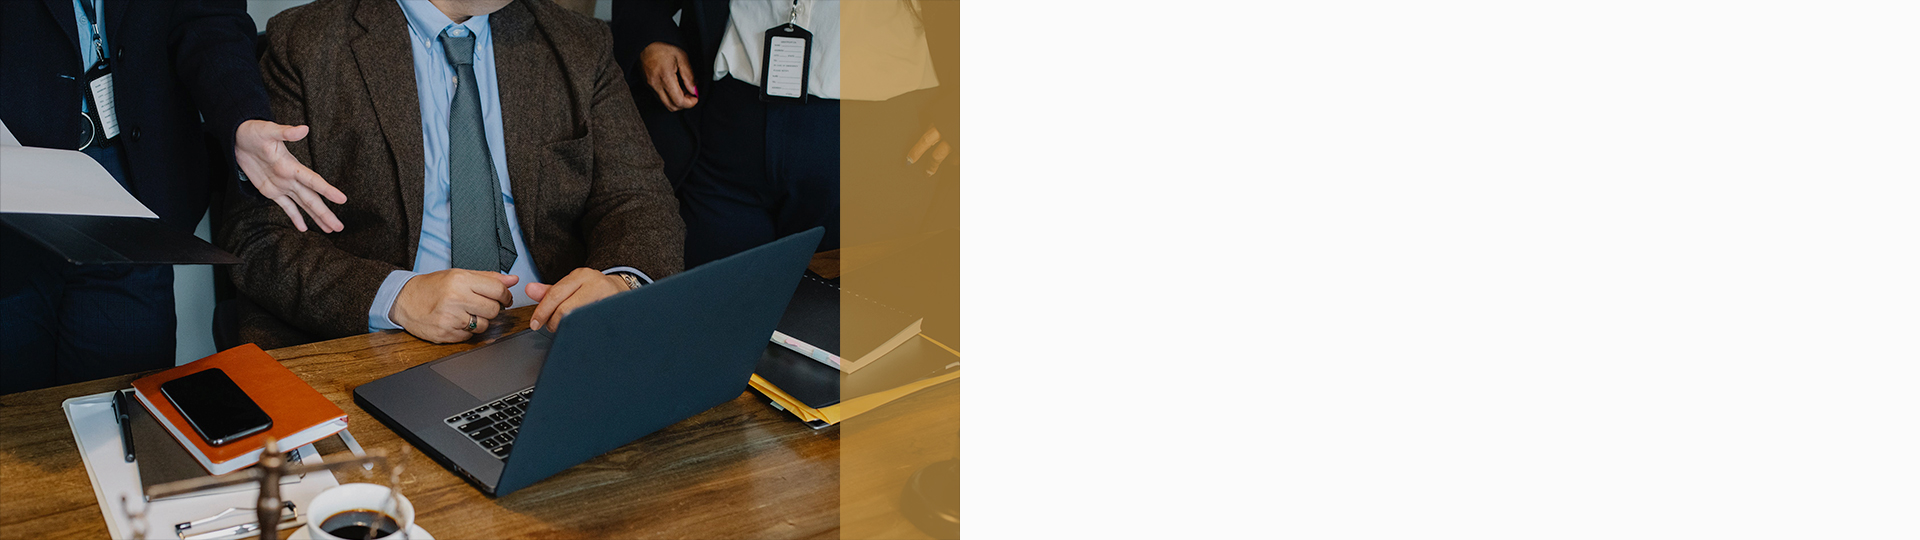
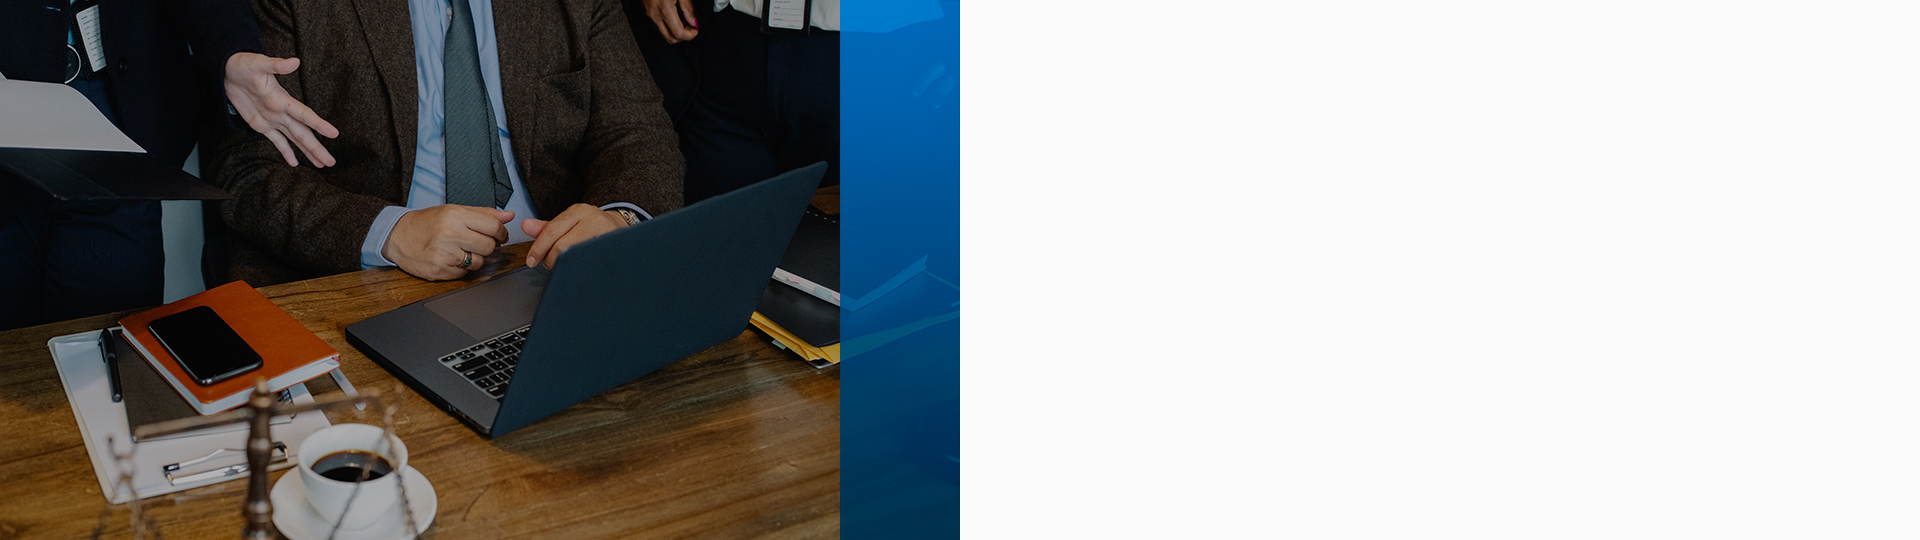
Version azul

diff --git a/index.html b/index.html
@@ -77,9 +77,9 @@
 					<div class="row">
 						<div class="col-md-6 col-md-offset-3 intro-text">
 							<h1 class="justify-content-center"><img
-								src="img/logo.svg "
+								src="img/logo_white.svg "
 								class="logo_animated"
-								alt="Hash Bank"
+								alt="Hash Bank Logo"
 							/></h1>
 							<h2 class="logo_text">Tailor-made banking solutions from an $100B USD asset-back digital bank</h2>
 							<h2 class="logo_text italic">Solutions bancaires sur mesure d'une banque numérique de 100 milliards de dollars</h2>
@@ -111,8 +111,8 @@
 
 		<!-- Tresuary Section -->
 		<div id="tresuary">
-			<div class="container align-center justify-content-center">
-				<div class="row">
+			<div class="align-center justify-content-center w100 flex-column">
+				<div class="row p15">
 					<div class="col-xs-12 col-md-8 col-md-offset-2 white">
 						<div class="mb-3em">
 							<h2 class="text-center subtitle">Treasury</h2>
@@ -122,9 +122,11 @@
 							<h2 class="text-center subtitle">Trésorerie</h2>
 							<h2 class="text-center white">Sous gestion. Disponible pour vos besoins de garantie</h2>
 						</div>
-						<p class="hugetext">$100B</p>
 					</div>
 				</div>
+				<div class="w100 white-transp">
+				<p class="hugetext p15">$100B</p>
+			</div>
 			</div>
 		</div>
 		
@@ -164,6 +166,30 @@
 				</div>
 			</div>
 		</div>
+
+		
+		<!--License Section -->
+		<div id="license">
+			<div class="container align-center justify-content-center">
+				<div class="row">
+					<div class="col-xs-12 col-md-6 col-md-offset-6 mb-3em">
+						<div class="section-title">
+							<h2 class="subtitle">License</h2>
+							<h2 class="white">Title about our license</h2>
+						</div>
+						<p class="white">Misión o alguna info del banco … Lorem ipsum dolor sit amet, consectetur adipiscing elit. Vivamus ultricies augue id mi convallis, convallis tempus sem laroreet ultricies .</p>
+					</div>
+					<div class="col-xs-12 col-md-6">
+						<div class="section-title">
+							<h2 class="subtitle">Licence</h2>
+							<h2 class="white">Titre sur notre licence</h2>
+						</div>
+						<p class="white">Cher Lucas, Je t'écris de chez mes grands-parents à l'Aigle en Normandie où je passe de super vacances depuis maintenant une semaine. Ici, il fait beau et chaud. On a de la chance! J'en profite pour me baigner à la rivière avec mes cousins presque tous les jours!</p>
+					</div>
+				</div>
+			</div>
+		</div>
+
 		<!-- Contact Section -->
 		<div id="contact">
 			<div class="container flex justify-content-center">

diff --git a/css/style.css b/css/style.css
@@ -1,7 +1,7 @@
 :root {
 	--background: #fbfbfb;
-	--mainprimary:   #B7934B;
-	--maindark: #855f19;
+	--mainprimary:   #1589B1;
+	--maindark: #173C81;
 	--black:  #000000;
 	--white: #FFFFFF;
 	--grey: #666666;
@@ -45,6 +45,9 @@ p.intro {
 	margin: 12px 0 0;
 	line-height: 24px;
 }
+.p15{
+	padding: 0px 15px;
+}
 a {
 	color: var(--mainprimary);
 	font-weight: 400;
@@ -57,6 +60,7 @@ a:hover, a:focus {
 	font-size: 17px;
     text-align: right;
     margin-bottom: 5px;
+	color:  var(--white);
 }
 .subtitle{
 	text-transform: uppercase;
@@ -69,6 +73,7 @@ a:hover, a:focus {
     color: var(--mainprimary);
     text-align: center;
 	font-weight: 700;
+	padding: 20px 15px;
 }
 .italic{
 	font-style: italic;
@@ -128,7 +133,7 @@ hr {
 
 /* Navigation */
 #menu {
-	padding: 20px;
+	padding: 15px 0px 10px 0px;
 	transition: all 0.8s;
 }
 .logo_img{
@@ -157,7 +162,8 @@ hr {
 }
 
 #menu.navbar-default {
-	background-color: rgba(248, 248, 248, 0);
+	/*background-color: rgba(248, 248, 248, 0);*/
+	background-color: var(--white);
 	border-color: rgba(231, 231, 231, 0);
 }
 #menu a.navbar-brand {
@@ -302,6 +308,11 @@ a:focus, .btn:focus, .btn:active:focus, .btn.active:focus, .btn.focus, .btn:acti
 	flex-direction: column;
 }
 
+.flex-column{
+	display: flex;
+	flex-direction: column;
+}
+
 .flex-row{
 	display: flex;
 	flex-direction: row;
@@ -348,6 +359,13 @@ a:focus, .btn:focus, .btn:active:focus, .btn.active:focus, .btn.focus, .btn:acti
 	background: var(--white) url(../img/digital-collateral/digital-two-bg.jpg) center center no-repeat;
 	background-size: cover;
 	min-height: 50vh;
+}
+
+#license{
+	display: flex;
+	background: var(--white) url(../img/license/license-bg.jpg) center center no-repeat;
+	background-size: cover;
+	min-height: 100vh;
 }
 
 /* Contact Section */
@@ -482,16 +500,20 @@ color: var(--grey);
 
 .white{
 	color:var(--white);
-  }
+}
 
-  .grey{
-	  color: var(--grey);
-  }
+.white-transp{
+	background-color:rgba(255, 255, 255, 0.70);
+}
 
-  .maincolor{
-	  color: var(--mainprimary);
-  }
+.grey{
+	color: var(--grey);
+}
 
-  .mainprimary{
-	  color: var(--mainprimary);
-  }
+.maincolor{
+	color: var(--mainprimary);
+}
+
+.mainprimary{
+	color: var(--mainprimary);
+}
